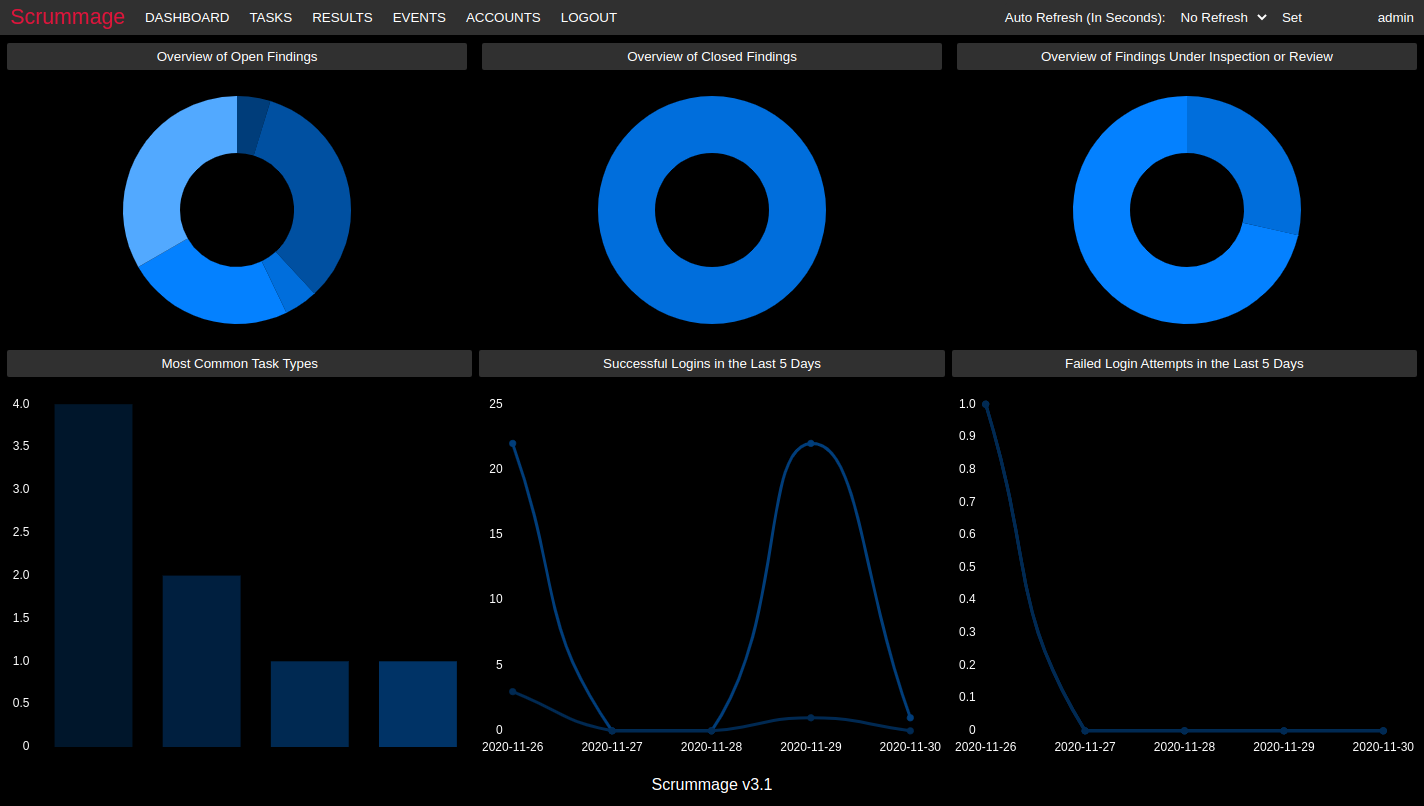
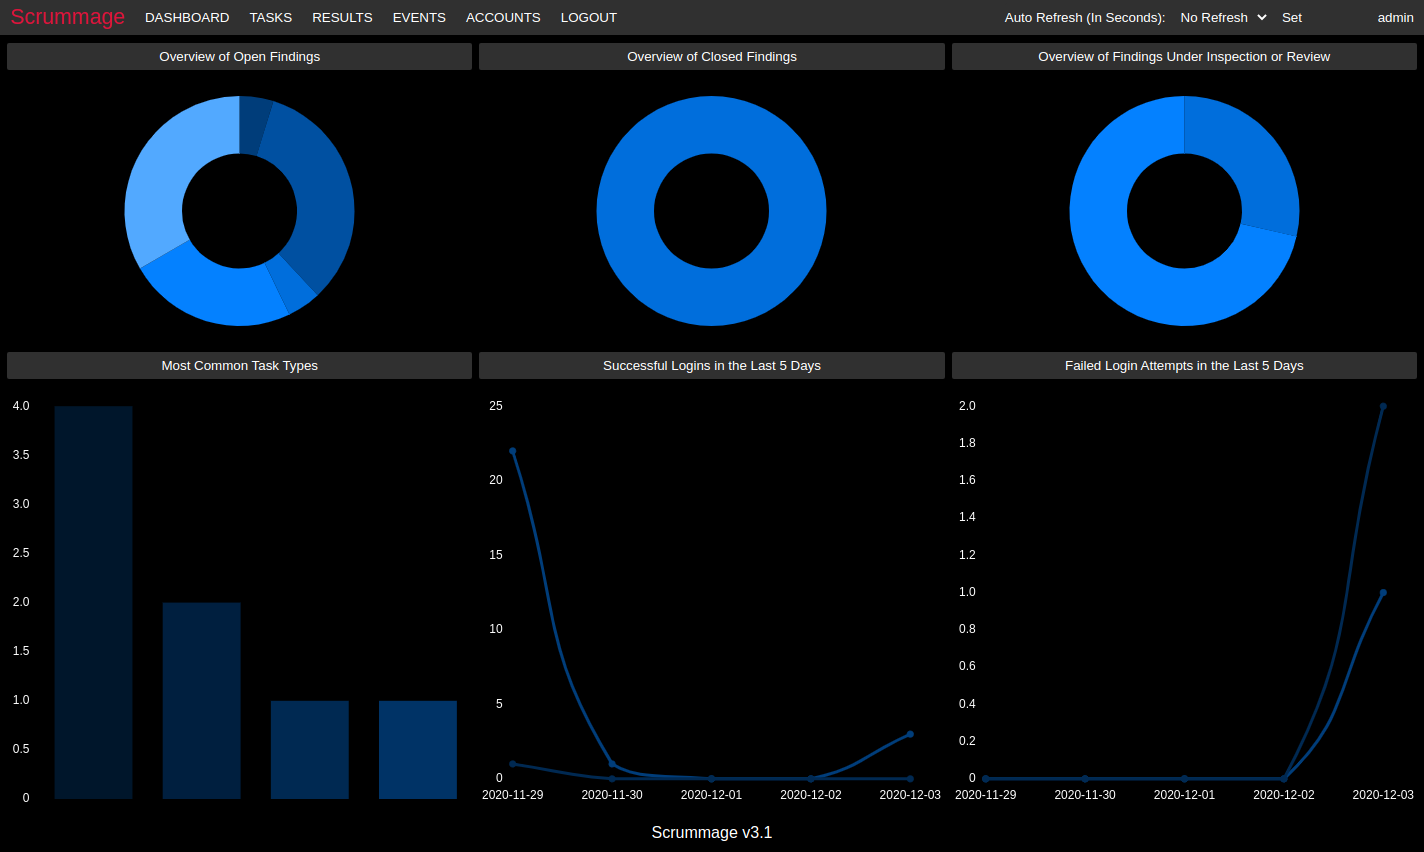
modified:   installation/images_dark_theme/Dashboard.png 	modified:   lib/static/css/template.css

diff --git a/lib/static/css/template.css b/lib/static/css/template.css
@@ -926,6 +926,7 @@ table.dataTable,table.dataTable th,table.dataTable td
 .dashboard_small_div {
     text-align: center;
     display: inline-block;
+    width: 100%;
 }
 
 .dashboard_large_div {
@@ -1147,15 +1148,18 @@ table.dataTable,table.dataTable th,table.dataTable td
 .dashboard_small_outer_div_left {
     display: inline-block;
     float: left;
+    width: 33%;
 }
 
 .dashboard_small_outer_div_right {
     display: inline-block;
     float: right;
+    width: 33%;
 }
 
 .dashboard_small_outer_div {
     display: inline-block;
+    width: 33%;
 }
 
 .dashboard_large_outer_div {
